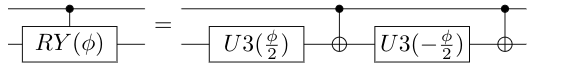
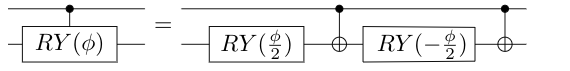
[WIP] Simplify decomposition of CRY (#547)
* Simplify CRY decomposition

* Fix CRY decomposition test

* Fix recursive decomposition test

* Changing CRY image

* Updating docs to have RY in the decomposition

Changed region(s): [[0.6263, 0.3662, 0.8351, 0.9014], [0.3877, 0.4225, 0.5368, 0.8451]]

diff --git a/tests/qnodes/test_qnode_base.py b/tests/qnodes/test_qnode_base.py
@@ -1063,56 +1063,32 @@ class TestDecomposition:
 
         res = decompose_queue(queue, operable_mock_device_2_wires_with_inverses)
 
-        assert len(res) == 17
+        assert len(res) == 9
 
-        assert res[0].name == "RZ"
-        assert res[0].parameters == [0]
+        assert res[0].name == "RY"
+        assert res[0].parameters == [0.5]
 
-        assert res[1].name == "RY"
-        assert res[1].parameters == [0.5]
+        assert res[1].name == "CNOT"
 
-        assert res[2].name == "RZ"
-        assert res[2].parameters == [0]
+        assert res[2].name == "RY"
+        assert res[2].parameters == [-0.5]
 
-        assert res[3].name == "PhaseShift"
-        assert res[3].parameters == [0]
+        assert res[3].name == "CNOT"
 
-        assert res[4].name == "PhaseShift"
-        assert res[4].parameters == [0]
+        assert res[4].name == "RZ"
+        assert res[4].parameters == [5]
 
-        assert res[5].name == "CNOT"
+        assert res[5].name == "RY"
+        assert res[5].parameters == [3]
 
         assert res[6].name == "RZ"
-        assert res[6].parameters == [0]
+        assert res[6].parameters == [-5]
 
-        assert res[7].name == "RY"
-        assert res[7].parameters == [-0.5]
+        assert res[7].name == "PhaseShift"
+        assert res[7].parameters == [5]
 
-        assert res[8].name == "RZ"
-        assert res[8].parameters == [0]
-
-        assert res[9].name == "PhaseShift"
-        assert res[9].parameters == [0]
-
-        assert res[10].name == "PhaseShift"
-        assert res[10].parameters == [0]
-
-        assert res[11].name == "CNOT"
-
-        assert res[12].name == "RZ"
-        assert res[12].parameters == [5]
-
-        assert res[13].name == "RY"
-        assert res[13].parameters == [3]
-
-        assert res[14].name == "RZ"
-        assert res[14].parameters == [-5]
-
-        assert res[15].name == "PhaseShift"
-        assert res[15].parameters == [5]
-
-        assert res[16].name == "PhaseShift"
-        assert res[16].parameters == [4]
+        assert res[8].name == "PhaseShift"
+        assert res[8].parameters == [4]
 
     def test_decompose_queue_inv(self, operable_mock_device_2_wires_with_inverses):
         """Test that decompose queue works correctly

diff --git a/pennylane/ops/qubit.py b/pennylane/ops/qubit.py
@@ -637,7 +637,7 @@ class CRY(Operation):
     .. math::
 
         \begin{align}
-             CRY(\phi) &= I_{1}\otimes U3_{2}(\pi / 2) ~\cdot~ CNOT_{12} ~\cdot~ I_{1}\otimes U3_{2}(-\pi / 2) ~\cdot~ CNOT_{12} \notag \\[10pt]
+             CRY(\phi) &= I_{1}\otimes RY_{2}(\pi / 2) ~\cdot~ CNOT_{12} ~\cdot~ I_{1}\otimes RY_{2}(-\pi / 2) ~\cdot~ CNOT_{12} \notag \\[10pt]
             &=
         \begin{bmatrix}
             1 & 0 & 0 & 0 \\
@@ -659,7 +659,7 @@ class CRY(Operation):
     **Decomposition**
 
     If the ``CRY`` gate is not supported on the targeted device, PennyLane
-    will attempt to decompose the gate into :class:`~.U3` and :class:`~.CNOT` gates the following way:
+    will attempt to decompose the gate into :class:`~.RY` and :class:`~.CNOT` gates the following way:
 
     .. image:: ../../_static/cry_circuit.png
         :align: center
@@ -683,9 +683,9 @@ class CRY(Operation):
     @staticmethod
     def decomposition(theta, wires):
         decomp_ops = [
-            U3(theta / 2, 0, 0, wires=wires[1]),
+            RY(theta / 2, wires=wires[1]),
             CNOT(wires=wires),
-            U3(-theta / 2, 0, 0, wires=wires[1]),
+            RY(-theta / 2, wires=wires[1]),
             CNOT(wires=wires),
         ]
         return decomp_ops

diff --git a/tests/test_operation.py b/tests/test_operation.py
@@ -1031,16 +1031,16 @@ class TestDecomposition:
 
         assert len(rec.queue) == 4
 
-        assert rec.queue[0].name == "U3"
-        assert rec.queue[0].parameters == [phi/2, 0, 0]
+        assert rec.queue[0].name == "RY"
+        assert rec.queue[0].parameters == [phi/2]
         assert rec.queue[0].wires == [1]
 
         assert rec.queue[1].name == "CNOT"
         assert rec.queue[1].parameters == []
         assert rec.queue[1].wires == operation_wires
 
-        assert rec.queue[2].name == "U3"
-        assert rec.queue[2].parameters == [-phi/2, 0, 0]
+        assert rec.queue[2].name == "RY"
+        assert rec.queue[2].parameters == [-phi/2]
         assert rec.queue[2].wires == [1]
 
         assert rec.queue[3].name == "CNOT"
